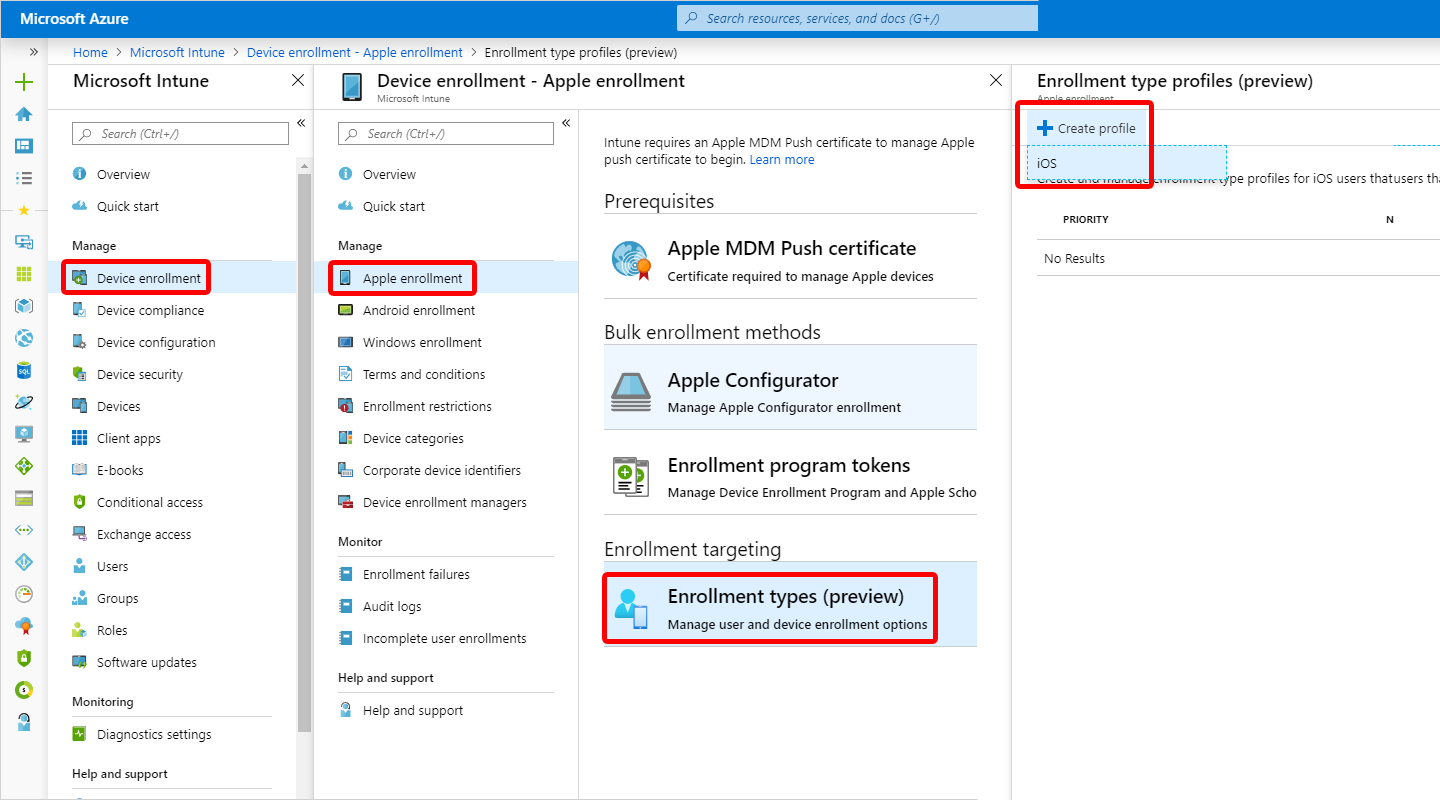
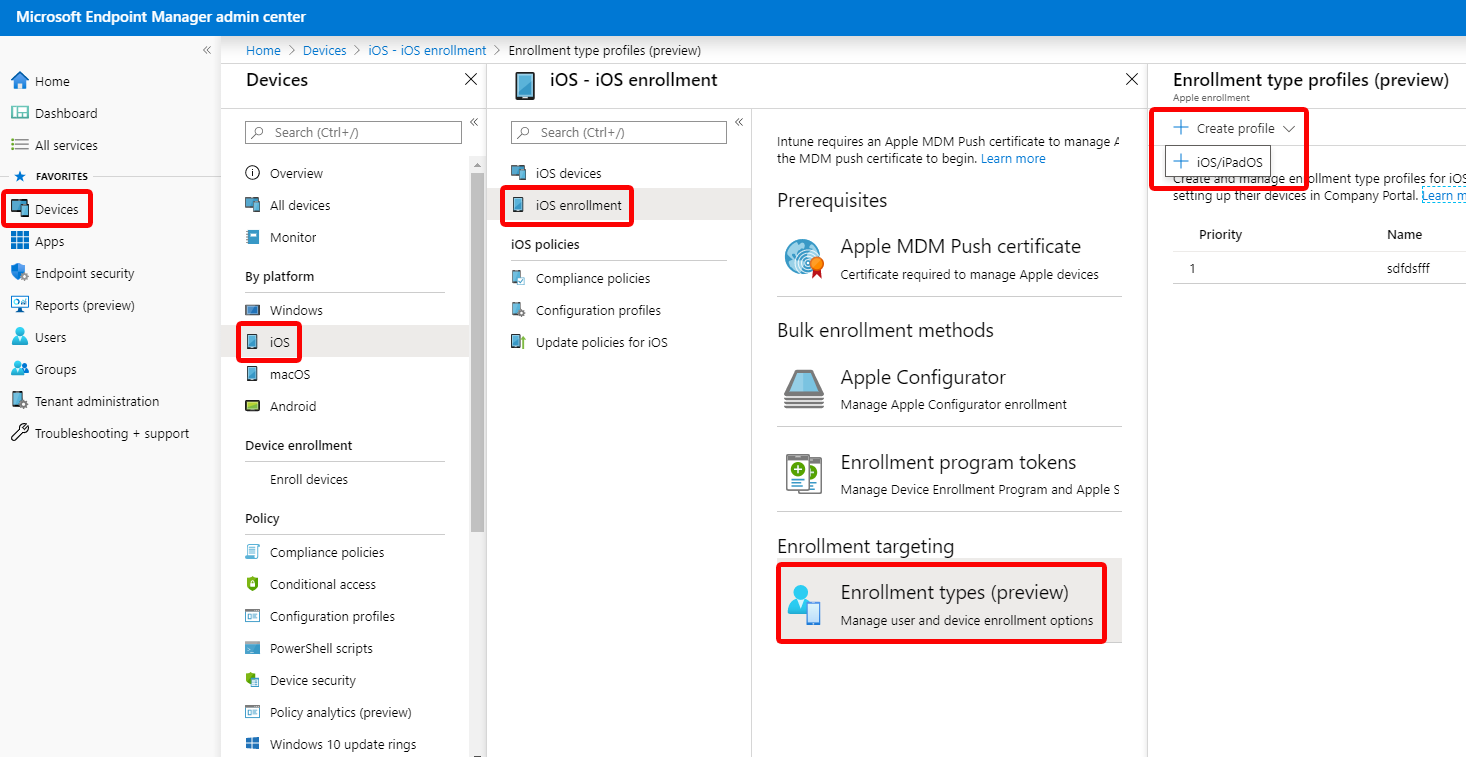
memac changes

diff --git a/intune/enrollment/ios-user-enrollment.md b/intune/enrollment/ios-user-enrollment.md
@@ -48,7 +48,7 @@ For more information about the options available with User Enrollment, see [User
 
 An enrollment profile defines the settings applied to a group of devices during enrollment. 
 
-1. In the [Microsoft Endpoint Manager Admin Center](https://go.microsoft.com/fwlink/?linkid=2109431), choose **Device enrollment** > **Apple Enrollment** > **Enrollment types (preview)** > **Create profile** > **iOS**. This profile is where you’ll indicate what enrollment experience your iOS and iPadOS end users will have on devices not enrolled through a corporate Apple method. If you'd like to make changes, you can edit this profile after you've created it.
+1. In the [Microsoft Endpoint Manager Admin Center](https://go.microsoft.com/fwlink/?linkid=2109431), choose **Devices** > **iOS** > **ioS enrollment** > **Enrollment types (preview)** > **Create profile** > **iOS/iPadOS**. This profile is where you’ll indicate what enrollment experience your iOS and iPadOS end users will have on devices not enrolled through a corporate Apple method. If you'd like to make changes, you can edit this profile after you've created it.
 
     ![Create Apple enrollment profile](./media/ios-user-enrollment/create-profile.png)
 
@@ -93,7 +93,7 @@ An enrollment profile defines the settings applied to a group of devices during 
 
 After you've created more than one enrollment type profile, you can change the priority order in which they're applied.
 
-1. In the [Microsoft Endpoint Manager Admin Center](https://go.microsoft.com/fwlink/?linkid=2109431), choose **Device enrollment** > **Apple Enrollment** > **Enrollment types (preview)**.
+1. In the [Microsoft Endpoint Manager Admin Center](https://go.microsoft.com/fwlink/?linkid=2109431), choose **Devices** > **iOS** > **ioS enrollment** > **Enrollment types (preview)**.
 2. Drag and drop the profiles in the list in the order you want them applied.
 
 In case of conflicts between profiles for any user, the higher priority profile is applied for the user.
